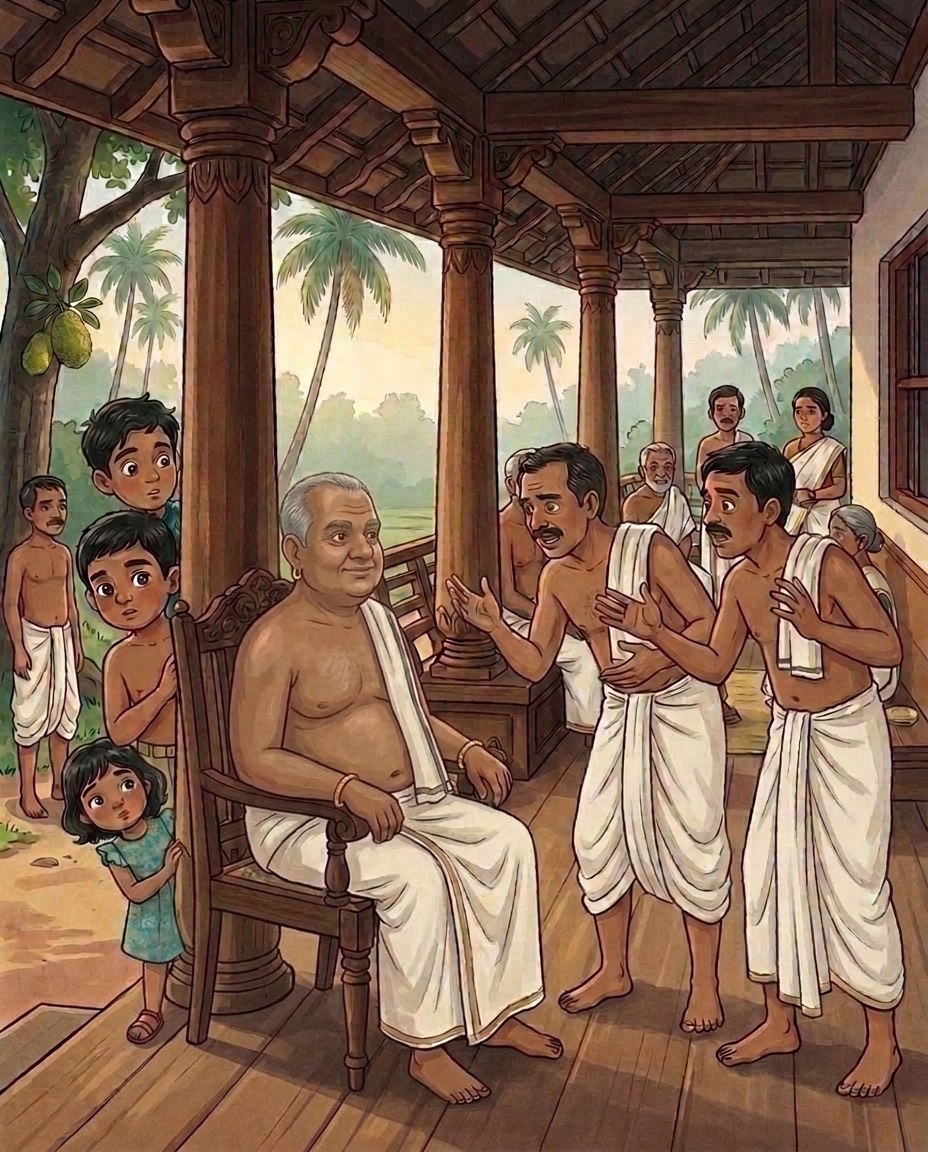
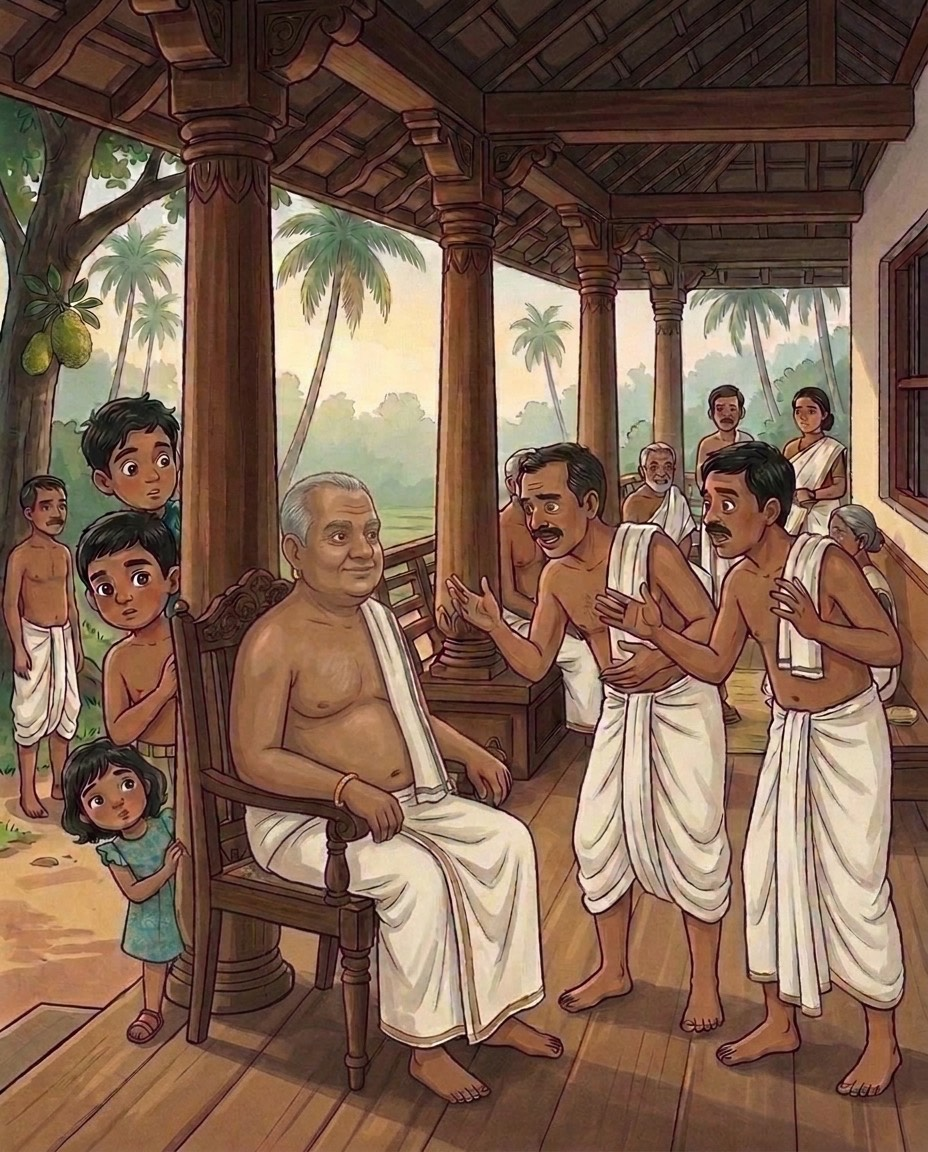
Comic ch.1 panel 7: Valiyammavan's bracelet on his right wrist only
Cast description now states the bracelet is worn only on the right wrist.

diff --git a/comics/chiyyaram-childhood/index.html b/comics/chiyyaram-childhood/index.html
@@ -59,7 +59,7 @@
 <script src="story.js?v=3"></script>
 <script>
 var COMIC = {
-  v: '5',  // bump whenever a panel image changes, so browsers drop their cached copies
+  v: '6',  // bump whenever a panel image changes, so browsers drop their cached copies
   next: 'Next time: who was Appuman?',
   nextUrl: '../../stories/appuman-harvest.html',
   nextLink: 'Read Chapter 2 →'
